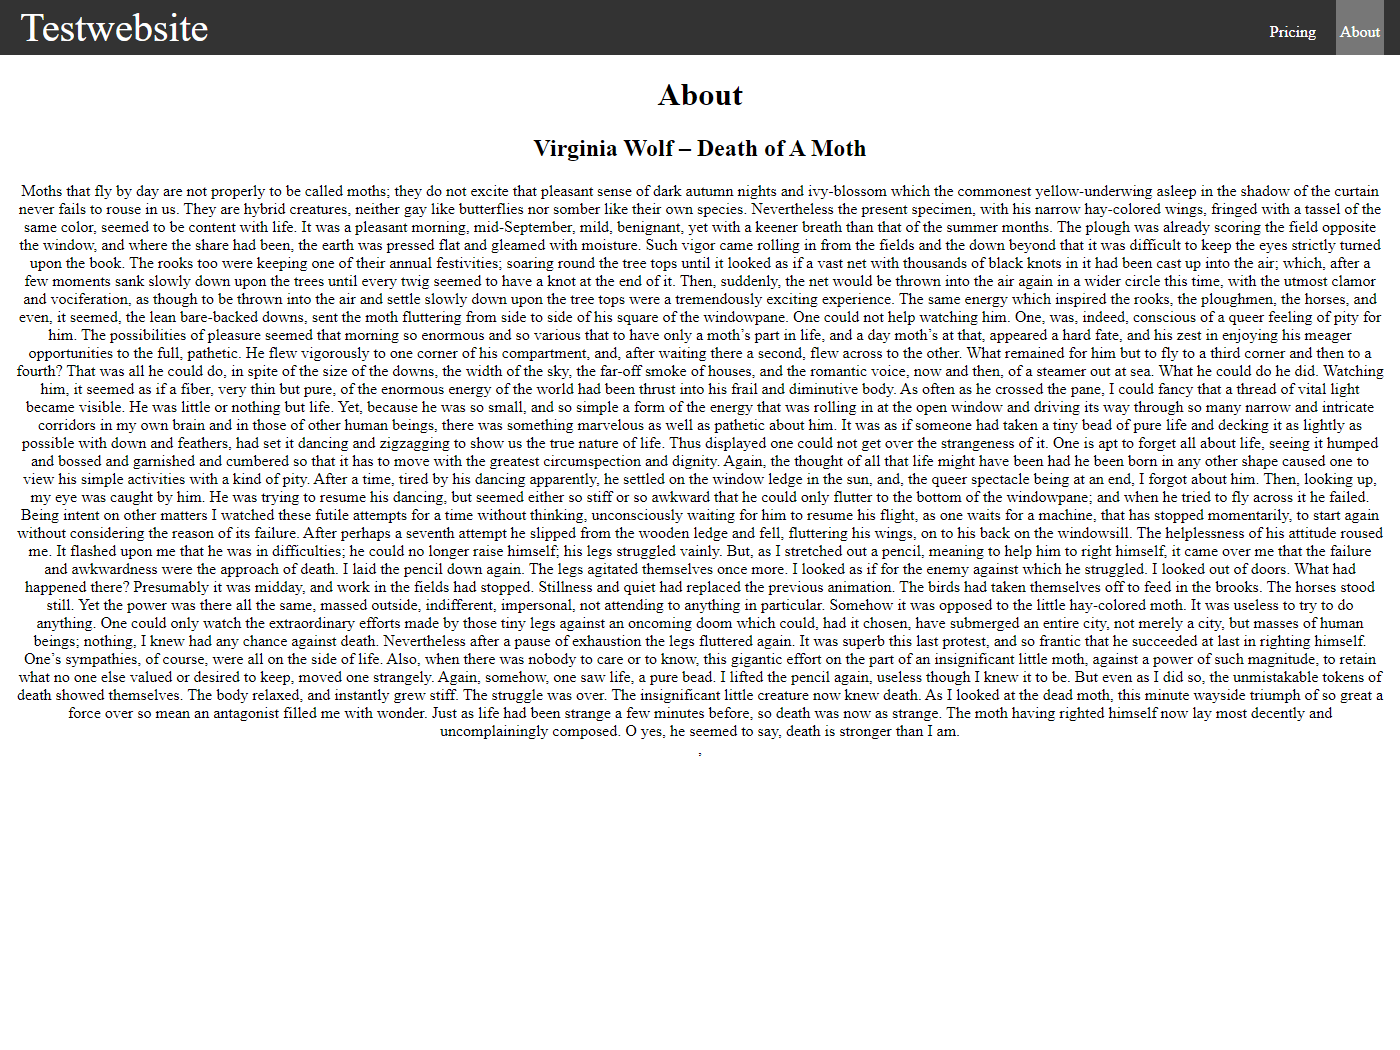
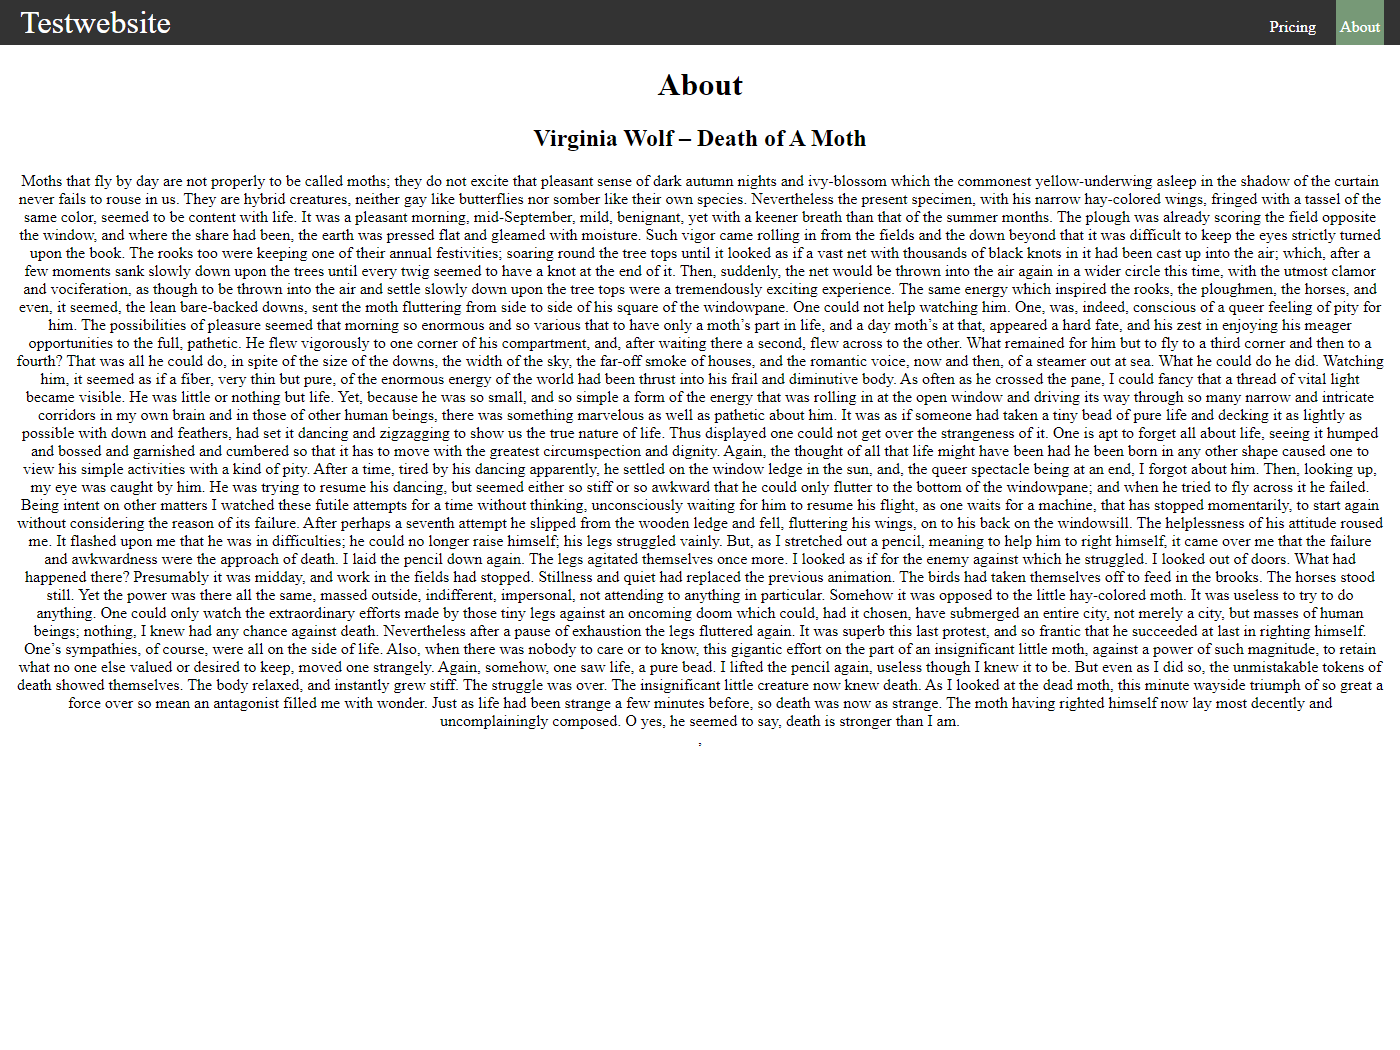
test

Changed region(s): [[0.0, 0.0, 1.0, 0.701]]

diff --git a/src/styles.css b/src/styles.css
@@ -43,5 +43,5 @@ body {
 }
 
 .nav li:hover{
-    background-color: #797;
+    background-color: #777;
 }
